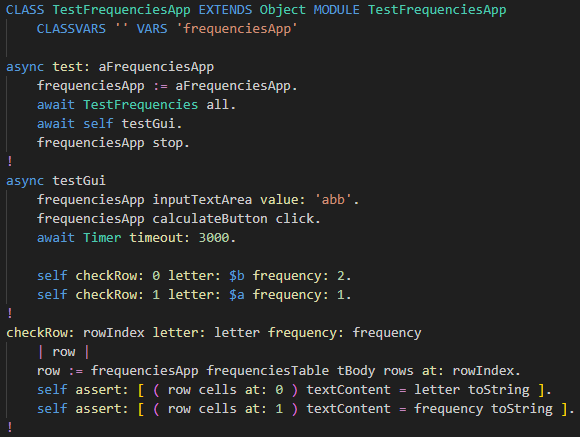
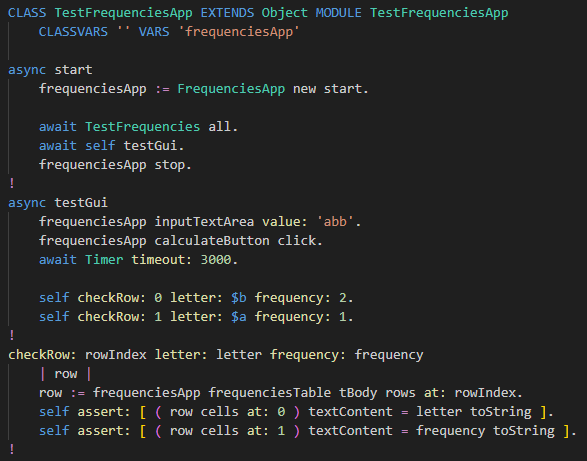
Tutorial: Updated section Browser App to reflect new way calling tests
Home: Updates on top for quick viewer convenience.

Changed region(s): [[0.0, 0.0, 0.9931, 0.9817], [0.0621, 0.6247, 0.5897, 0.714]]

diff --git a/Tutorial/Pages/BrowserApp/TestingGui.html b/Tutorial/Pages/BrowserApp/TestingGui.html
@@ -11,22 +11,6 @@
 	Let's now create GUI tests for our app <code>FrequenciesApp</code> .<br>
 </div>
 
-<div class="tutorialHeading1">Calling GUI tester</div>
-<div class="tutorialText">
-	First the class <code>FrequenciesApp</code> must be able to call the GUI test.<br>
-	In the file <code>./src/FrequenciesApp.st</code>, add the flowing lines at the end of the method <code>start</code> :<br>
-
-<pre class="codeBlock">
-	self testMode ifTrue: [
-		TestFrequenciesApp new test: self ].
-</pre><br>
-	The resulting method should look like this:<br>
-	<img src="TestingGuiMethodStart.png" class="screenPart"><br>
-	After normal app startup, the added lines check if the app was started in test mode.<br>
-	If so, a new GUI tester <code>TestFrequenciesApp</code> is created,<br>
-	and its method <code>test:</code> is called with the running app as the argument.<br>
-</div>
-
 <div class="tutorialHeading1">Access to app variables</div>
 <div class="tutorialText">
 	The tester class will need access to the variables in the app.<br>
@@ -61,10 +45,12 @@ frequenciesTable
 CLASS TestFrequenciesApp EXTENDS Object MODULE TestFrequenciesApp
 	CLASSVARS '' VARS 'frequenciesApp'
 
-async test: aFrequenciesApp
-	frequenciesApp := aFrequenciesApp.
+async start
+	frequenciesApp := FrequenciesApp new start.
+
 	await TestFrequencies all.
 	await self testGui.
+	frequenciesApp stop.
 !
 async testGui
 	frequenciesApp inputTextArea value: 'abb'.
@@ -96,18 +82,18 @@ checkRow: rowIndex letter: letter frequency: frequency
 	The instance variable <code>frequenciesApp</code> will reference the app to be tested.<br>
 </div>
 
-<div class="tutorialHeading2">Method: test:</div>
+<div class="tutorialHeading2">Method: start</div>
 <div class="tutorialText">
-	<img src="TestingGuiMethodTest.png" class="screenPart"><br>
+	<img src="TestingGuiMethodStart.png" class="screenPart"><br>
 	First note that this method is <code>async</code> .<br>
 	Methods that <code>await</code> the outcome of other <code>async</code> methods, must also be <code>async</code> .<br>
-	This is a design restriction (flaw) of JS, that cannot be circumvented in SmallJS, alas.<br>
+	This is a design restriction of JS, that cannot be circumvented in SmallJS, alas.<br>
 	<br>
-	The method first saves a reference to the app being tested.<br>
+	The method first creates and starts a <code>FrequenciesApp</code> instance to be tested.<br>
 	Then it executes all unit tests through the class <code>TestFrequencies</code> we created earlier.<br>
 	Note: The class method <code>all</code> executes <b><i>all</i></b> unit tests that were compiled,<br>
 	not only the ones in the class <code>TestFrequencies</code> .<br>
-	Then the <code>testGui</code> method is called, the main purpose of this class.<br>
+	Then the method <code>testGui</code> is called, the main purpose of this class.<br>
 	Lastly the app is stopped, also closing the browser.<br>
 </div>
 
@@ -142,7 +128,8 @@ checkRow: rowIndex letter: letter frequency: frequency
 	for a browser you have installed:<br>
 	<img src="TestingGuiRunningConfiguration.png" class="screenPart"><br>
 	This will start the app with <code>?test</code> appended to the URL,<br>
-	causing the method <code>testMode</code> (see above) to return <code>true</code> . <br>
+	causing variable <code>testMode</code> in <code>main.ts</code>become <code>true</code> ,<br>
+	so it will start a <code>FrequenciesTestApp</code> iso a <code>FrequenciesApp</code> .<br>
 	<br>
 	In VSCode, now press [F5] to start the app in test mode.<br>
 	If all goes well, a bowser will be launched and the GUI tests class will run automatically,<br>

diff --git a/Website/web/Home/Home.html b/Website/web/Home/Home.html
@@ -21,14 +21,20 @@
 		<tr class="horizontal-center">
 			<td>
 				<p class="title">Welcome to SmallJS !</p>
-				<br>
+				<p><b>SmallJS</b> is a free and open source implementation of the elegant and powerful Smalltalk-80
+					language.<br>
+					It compiles to JavaScript that runs in modern browsers or in Node.js.
+				</p>
 				<p>
 					21-FEB-2026: <a href="../News/News.html" class="bold">SmallJS v2.0</a> has been released!
 				</p>
-				<p>The source code is here:
+				<p>The source code is here:<br>
 					<a href="https://github.com/small-js/smalljs" class="bold" target="_blank">github.com/small-js/smalljs</a>
 				</p>
-				<p>Here's an overview presentation of SmallJS:
+				<p>Or just download it as as ZIP file:<br>
+					<a href="https://github.com/Small-JS/SmallJS/archive/refs/heads/main.zip" class="bold" download>SmallJS-main.zip</a>
+				</p>
+				<p>Here's an overview presentation of SmallJS:<br>
 					<a class="bold" href="Why_SmallJS.pdf" target="_blank">Why SmallJS?</a>
 				</p><br>
 				<img id="SmallJSLogo" src="../SmallJS.png" alt="SmallJS logo" width="300" height="300" />
@@ -37,11 +43,6 @@
 		<tr>
 			<td>
 				<p>
-				<p><b>SmallJS</b> is a free and open source implementation of the elegant and powerful Smalltalk-80 (ST)
-					language.
-					It compiles to JavaScript (JS) that runs in modern browsers or in Node.js.
-				</p>
-				<p>
 					SmallJS is file based, not image based, so you can develop in your favorite IDE.
 					The default setup is for Visual Studio Code, with ST syntax coloring and step debugging!
 					You code separately from the SmallJS base libraries (image) and only the parts you use are imported
@@ -49,7 +50,7 @@
 				</p>
 				<p>
 					SmallJS is <i>fully</i> object oriented, so customizable on every level.
-					For usability, ST class and method names are kept mostly equal to their familiar JS counterparts.
+					For usability, Smalltalk class and method names are kept mostly equal to their familiar Javascript counterparts.
 					JS libraries already encapsulated in ST are:
 				</p>
 				<ul>

diff --git a/Tutorial/Pages/BrowserApp/Main.html b/Tutorial/Pages/BrowserApp/Main.html
@@ -8,13 +8,23 @@
 	Replace its contents with the following JS code:<br>
 
 <pre class="codeBlock">
-let moduleName: string = "./FrequenciesApp.js";
-import( moduleName )
-	.then( module => { module.stFrequenciesApp$class.$new().$start() } );
+let testMode = window.location.search.toLowerCase() == '?test';
+if( testMode ) {
+	let moduleName = "./TestFrequenciesApp.js";
+	import( moduleName )
+		.then( module => { module.stTestFrequenciesApp$class.$new().$start(); } );
+} else {
+	let moduleName = "./FrequenciesApp.js";
+	import( moduleName )
+		.then( module => { module.stFrequenciesApp$class.$new().$start(); } );
+}
 </pre><br>
 
 	On screen it looks like this:<br>
 	<img src="Main.png" class="screenPart"><br>
+	Note that first a check is done if the app was started in test mode.<br>
+	We don't have that yet, so let's focus on the <code>else</code> part.<br>
+	<br>
 	First a variable is set to the compiled ST module name to import.<br>
 	Then the module is imported async using the <code>import()</code> <i>function</i>.<br>
 	Lastly a new instance is created of the app class with <code>$new()</code> ,<br>

diff --git a/Tutorial/Pages/BrowserApp/Environment.html b/Tutorial/Pages/BrowserApp/Environment.html
@@ -109,15 +109,7 @@ browserChrome="/c/Program Files/Google/Chrome/Application/chrome.exe"
 		<li>Setup a static web sever on a production server.<br>
 		possibly using the same npm 'http-server' that is used in development.</li>
 		<li>Then copy the contents of the <code>./web</code> folder to the production location.</li>
+		<li>To remove tests, in the folder <code>./web/Script</code> , remove all <code>Test*.js</code> files.</li>
 	</ul>
-
-	<b>Note:</b><br>
-	Removing (calls to) test classes from the app is currently a manual proces.<br>
-	This will be made simpler in a later release.<br>
-	<br>
-	This concludes the 'Browser App' tutorial.<br>
-	Now you can make your own coll browser app in Smalltalk! :-)<br>
-	If you've just been reading, remember the full tutorial app can be found here:<br>
-	<br>
 	One last step is to document the app...<br>
 </div>
